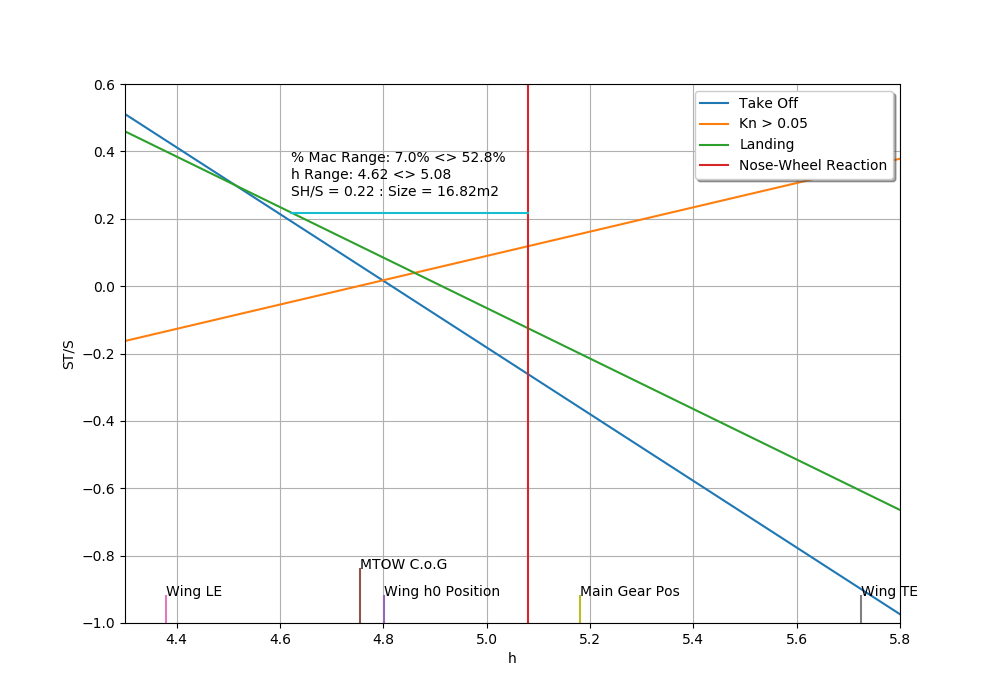
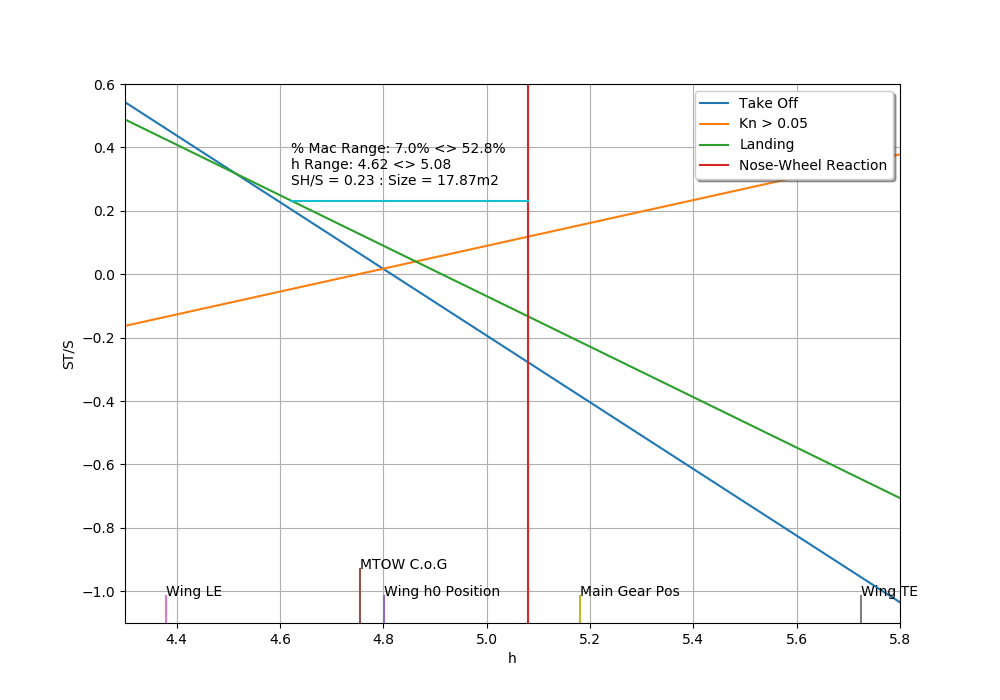
Change to clt=0.8 and update plots

diff --git a/scissorplot.py b/scissorplot.py
@@ -60,7 +60,7 @@ cm0 = cad_file['Interface-80']['F29'].value
 cl_to = cad_file['Interface-80']['F30'].value
 cl_ld = cad_file['Interface-80']['F32'].value
 cm0_ld = cad_file['Interface-80']['F33'].value
-clt = -0.85  # Tail CL
+clt = -0.8  # Tail CL
 mtow = cad_file['Interface-80']['F31'].value  # kg
 g = 9.81  # m/s/s
 h0 = cad_file['Interface-80']['B73'].value
